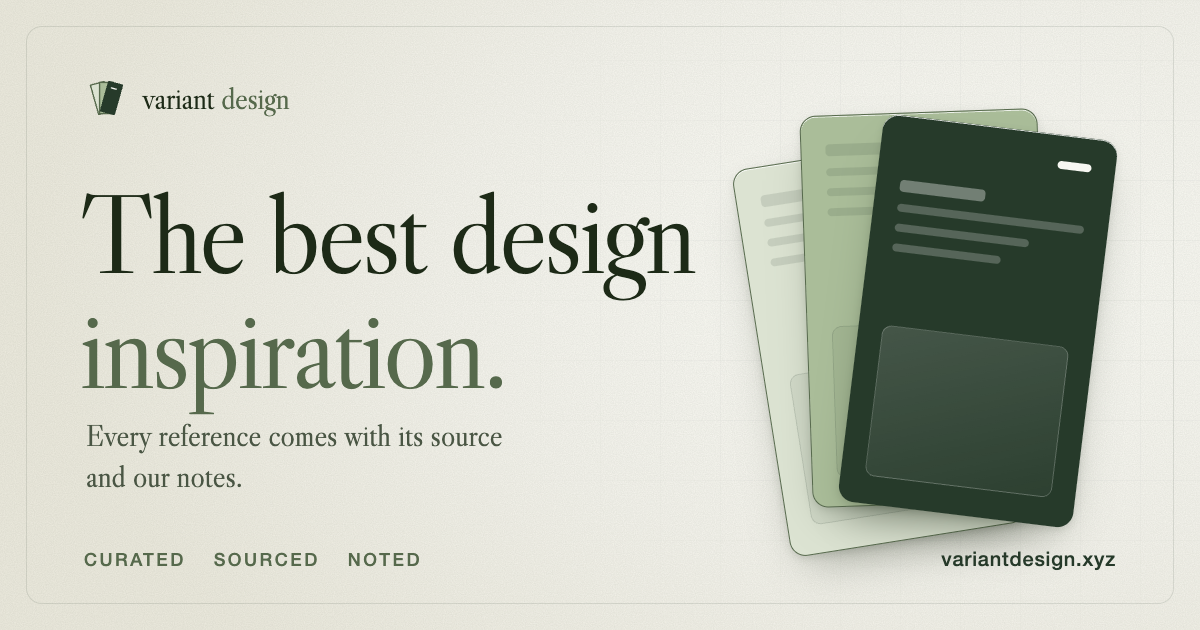
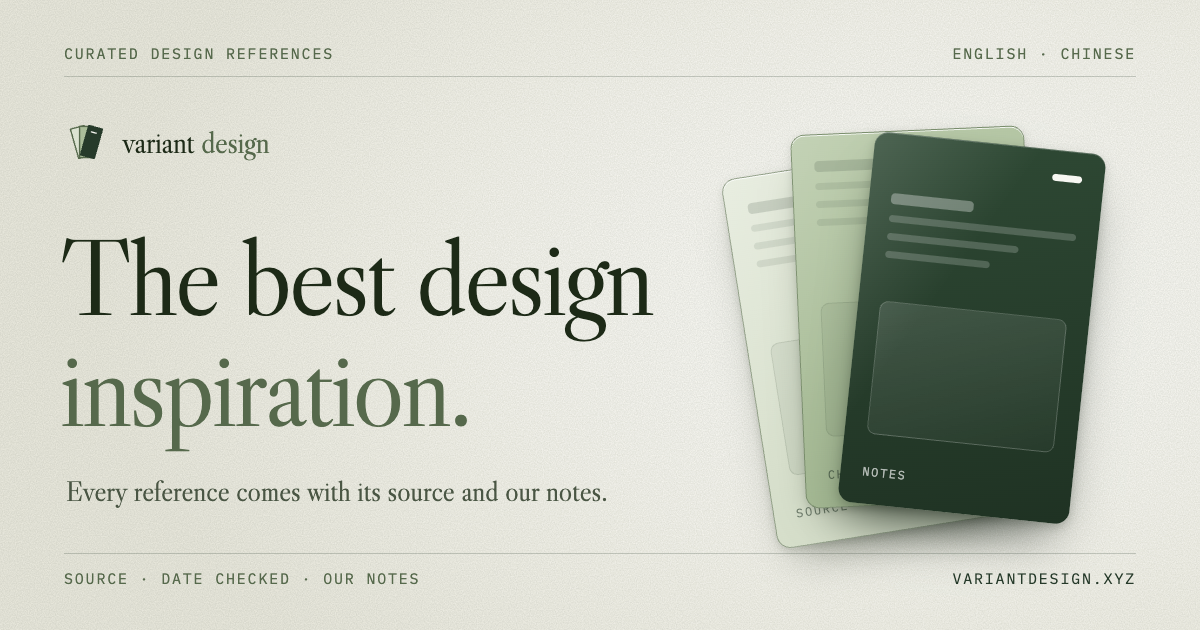
Rework the share card as a specimen label: rules, mono captions, one tactile stack

diff --git a/website/scripts/share-card.html b/website/scripts/share-card.html
@@ -1,38 +1,45 @@
 <!doctype html>
 <!-- Source of website/public/share-card.png (1200x630): the card every page shares unless it has its own image.
-     Our own mark and words only; no third-party screenshots. Regenerate: render this file at 1200x630 and save the PNG. -->
+     Our own mark and words only; no third-party screenshots. Regenerate: render this file at 1200x630 and save the PNG.
+     Structure borrowed in spirit from the library's specimen and label layouts (thin rules, mono captions, one tactile object, a tonal palette); nothing copied. -->
 <meta charset="utf-8">
 <style>
[2 lines of base64/hex data omitted]
 html,body{margin:0}
 body{width:1200px;height:630px;position:relative;overflow:hidden;color:#1d2a17;font-family:Caslon,serif;
- background:radial-gradient(900px 560px at 78% 42%,#fbfbf6 0%,#f4f3ec 55%,#eceade 100%)}
-.grain{position:absolute;inset:0;opacity:.5;mix-blend-mode:multiply}
-.grid{position:absolute;inset:0;background-image:linear-gradient(#26382a0d 1px,transparent 1px),linear-gradient(90deg,#26382a0d 1px,transparent 1px);background-size:60px 60px;-webkit-mask-image:radial-gradient(520px 400px at 80% 45%,#000,transparent);mask-image:radial-gradient(520px 400px at 80% 45%,#000,transparent)}
-.frame{position:absolute;inset:26px;border:1px solid #26382a1f;border-radius:16px}
-.brand{position:absolute;left:84px;top:76px;display:flex;align-items:center;gap:14px;font-size:30px;letter-spacing:-.01em}
+ background:radial-gradient(820px 520px at 76% 46%,#fdfdf9 0%,#f7f6ef 52%,#ecebe0 100%)}
+.grain{position:absolute;inset:0;mix-blend-mode:multiply}
+.mono{font:400 15px/1 Plex,monospace;letter-spacing:.12em;text-transform:uppercase;color:#56694c}
+.rule{position:absolute;left:64px;right:64px;height:1px;background:#26382a38}
+.top{top:76px} .bot{bottom:76px}
+.cap{position:absolute;display:flex;justify-content:space-between;left:64px;right:64px}
+.capt{top:46px} .capb{bottom:44px}
+.brand{position:absolute;left:64px;top:120px;display:flex;align-items:center;gap:14px;font-size:30px;letter-spacing:-.01em}
 .brand svg{width:44px;height:44px} .brand span{color:#56694c}
-h1{position:absolute;left:80px;top:176px;margin:0;width:660px;font-size:112px;line-height:1.03;font-weight:400;letter-spacing:-.025em}
+h1{position:absolute;left:60px;top:222px;margin:0;font-size:108px;line-height:1.03;font-weight:400;letter-spacing:-.025em;width:660px}
 h1 i{font-style:normal;color:#56694c}
-.sub{position:absolute;left:86px;top:416px;width:600px;font-size:30px;line-height:1.35;color:#4a5644}
-.rule{position:absolute;left:84px;top:540px;width:56px;height:2px;background:#263a2a}
-.meta{position:absolute;left:84px;bottom:62px;display:flex;gap:28px;font:500 18px/1 -apple-system,"Helvetica Neue",sans-serif;letter-spacing:.14em;text-transform:uppercase;color:#56694c}
-.url{position:absolute;right:84px;bottom:62px;font:500 20px/1 -apple-system,"Helvetica Neue",sans-serif;letter-spacing:.04em;color:#263a2a}
-.stack{position:absolute;left:760px;top:92px;width:340px;height:446px}
-.card{position:absolute;width:236px;height:390px;border-radius:16px;box-shadow:0 1px 0 #ffffffcc inset,0 22px 46px -18px #1a261466,0 3px 8px #1a26141f}
-.c1{left:0;top:58px;transform:rotate(-9deg);background:#dce3d2;border:1.5px solid #56694c}
-.c2{left:46px;top:20px;transform:rotate(-2deg);background:#aabd99;border:1.5px solid #56694c}
-.c3{left:100px;top:34px;transform:rotate(7deg);background:#263a2a}
-.lines{position:absolute;left:24px;right:24px;top:28px;display:grid;gap:12px}
-.lines b{display:block;height:8px;border-radius:4px;background:#ffffff38} .lines b:nth-child(1){width:46%;height:12px;background:#ffffff59} .lines b:nth-child(3){width:72%} .lines b:nth-child(4){width:58%}
-.block{position:absolute;left:24px;right:24px;bottom:28px;height:150px;border-radius:10px;background:linear-gradient(160deg,#ffffff24,#ffffff08);border:1px solid #ffffff2e}
-.dot{position:absolute;right:24px;top:26px;width:34px;height:8px;border-radius:4px;background:#f7f7f2}
-.c1 .lines b,.c2 .lines b{background:#26382a1f} .c1 .block,.c2 .block{background:#26382a0f;border-color:#26382a1f}
+.sub{position:absolute;left:66px;top:472px;width:560px;font-size:28px;line-height:1.38;color:#4a5644}
+.stack{position:absolute;left:748px;top:112px;width:360px;height:420px}
+.card{position:absolute;width:232px;height:372px;border-radius:14px;overflow:hidden;box-shadow:0 1px 0 #ffffffd9 inset,0 24px 44px -20px #1a261480,0 3px 8px #1a261424}
+.c1{left:0;top:48px;transform:rotate(-9deg);background:linear-gradient(165deg,#e4eadb,#d3dcc7);border:1px solid #56694c88}
+.c2{left:50px;top:18px;transform:rotate(-2.5deg);background:linear-gradient(165deg,#b9caa9,#a0b58f);border:1px solid #56694c88}
+.c3{left:108px;top:30px;transform:rotate(6deg);background:linear-gradient(165deg,#2f4a35,#1f3223);box-shadow:0 1px 0 #ffffff33 inset,0 28px 50px -18px #0d170f99,0 4px 10px #1a261433}
+.c3:after,.c2:after,.c1:after{content:"";position:absolute;inset:0;background:linear-gradient(120deg,#ffffff26 0%,transparent 38%);pointer-events:none}
+.lines{position:absolute;left:22px;right:22px;top:26px;display:grid;gap:11px}
+.lines b{display:block;height:7px;border-radius:4px;background:#26382a1c} .lines b:nth-child(1){width:44%;height:11px;background:#26382a2e} .lines b:nth-child(3){width:70%} .lines b:nth-child(4){width:56%}
+.c3 .lines b{background:#ffffff30} .c3 .lines b:nth-child(1){background:#ffffff52}
+.block{position:absolute;left:22px;right:22px;bottom:70px;height:132px;border-radius:9px;background:#26382a0f;border:1px solid #26382a1c}
+.c3 .block{background:linear-gradient(160deg,#ffffff1f,#ffffff06);border-color:#ffffff2b}
+.tag{position:absolute;left:22px;bottom:26px;font:400 12px/1 Plex,monospace;letter-spacing:.14em;color:#26382a99} .c3 .tag{color:#ffffffa6}
+.dot{position:absolute;right:22px;top:24px;width:30px;height:7px;border-radius:4px;background:#f7f7f2}
+.abc{position:absolute;left:748px;bottom:104px;width:360px;display:grid;grid-template-columns:repeat(3,1fr);gap:6px}
+.abc div{height:6px;border-radius:3px}
 </style>
-<svg style="display:none"><filter id="n"><feTurbulence type="fractalNoise" baseFrequency=".9" numOctaves="2" seed="7"/><feColorMatrix values="0 0 0 0 .15  0 0 0 0 .2  0 0 0 0 .12  0 0 0 .55 0"/></filter></svg>
-<svg class="grain" width="1200" height="630"><rect width="100%" height="100%" filter="url(#n)" opacity=".3"/></svg>
-<div class="grid"></div>
-<div class="frame"></div>
+<svg style="display:none"><filter id="n"><feTurbulence type="fractalNoise" baseFrequency=".85" numOctaves="2" seed="11"/><feColorMatrix values="0 0 0 0 .15  0 0 0 0 .2  0 0 0 0 .12  0 0 0 .6 0"/></filter></svg>
+<svg class="grain" width="1200" height="630"><rect width="100%" height="100%" filter="url(#n)" opacity=".22"/></svg>
+<div class="cap capt mono"><span>Curated design references</span><span>English · Chinese</span></div>
+<div class="rule top"></div>
 <div class="brand"><svg xmlns="http://www.w3.org/2000/svg" viewBox="0 0 48 48" fill="none">
   <path d="M7 10 22 6 31 38 16 42Z" fill="#DCE3D2" stroke="#56694C" stroke-width="1.5" stroke-linejoin="round"/>
   <path d="M17 7H32V41H17Z" fill="#AABD99" stroke="#56694C" stroke-width="1.5" stroke-linejoin="round"/>
@@ -41,11 +48,11 @@ h1 i{font-style:normal;color:#56694c}
 </svg>
 <div>variant <span>design</span></div></div>
 <h1>The best design<br><i>inspiration.</i></h1>
-<div class="sub">Every reference comes with its source<br>and our notes.</div>
-<div class="meta"><span>Curated</span><span>Sourced</span><span>Noted</span></div>
-<div class="url">variantdesign.xyz</div>
+<div class="sub">Every reference comes with its source and our notes.</div>
 <div class="stack">
- <div class="card c1"><div class="lines"><b></b><b></b><b></b><b></b></div><div class="block"></div></div>
- <div class="card c2"><div class="lines"><b></b><b></b><b></b><b></b></div><div class="block"></div></div>
- <div class="card c3"><div class="dot"></div><div class="lines" style="top:64px"><b></b><b></b><b></b><b></b></div><div class="block"></div></div>
+ <div class="card c1"><div class="lines"><b></b><b></b><b></b><b></b></div><div class="block"></div><div class="tag">SOURCE</div></div>
+ <div class="card c2"><div class="lines"><b></b><b></b><b></b><b></b></div><div class="block"></div><div class="tag">CHECKED</div></div>
+ <div class="card c3"><div class="dot"></div><div class="lines" style="top:60px"><b></b><b></b><b></b><b></b></div><div class="block"></div><div class="tag">NOTES</div></div>
 </div>
+<div class="rule bot"></div>
+<div class="cap capb mono"><span>Source · Date checked · Our notes</span><span style="color:#263a2a">variantdesign.xyz</span></div>
